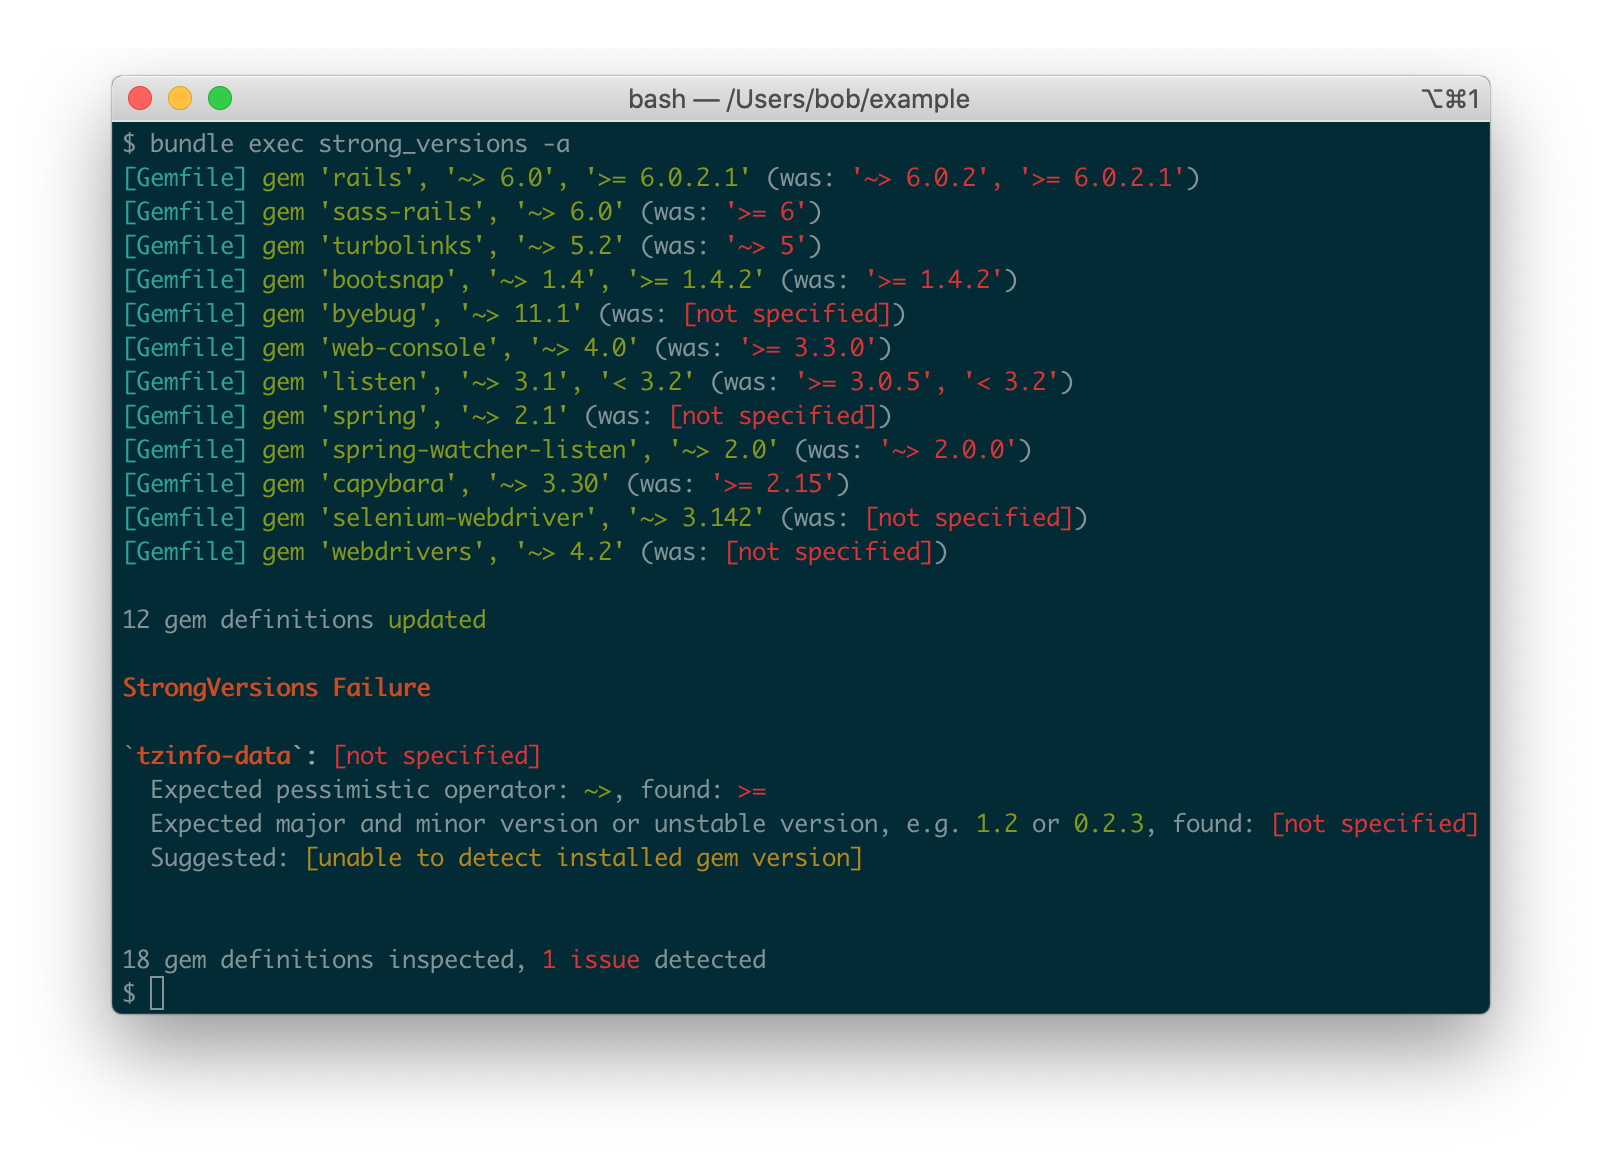
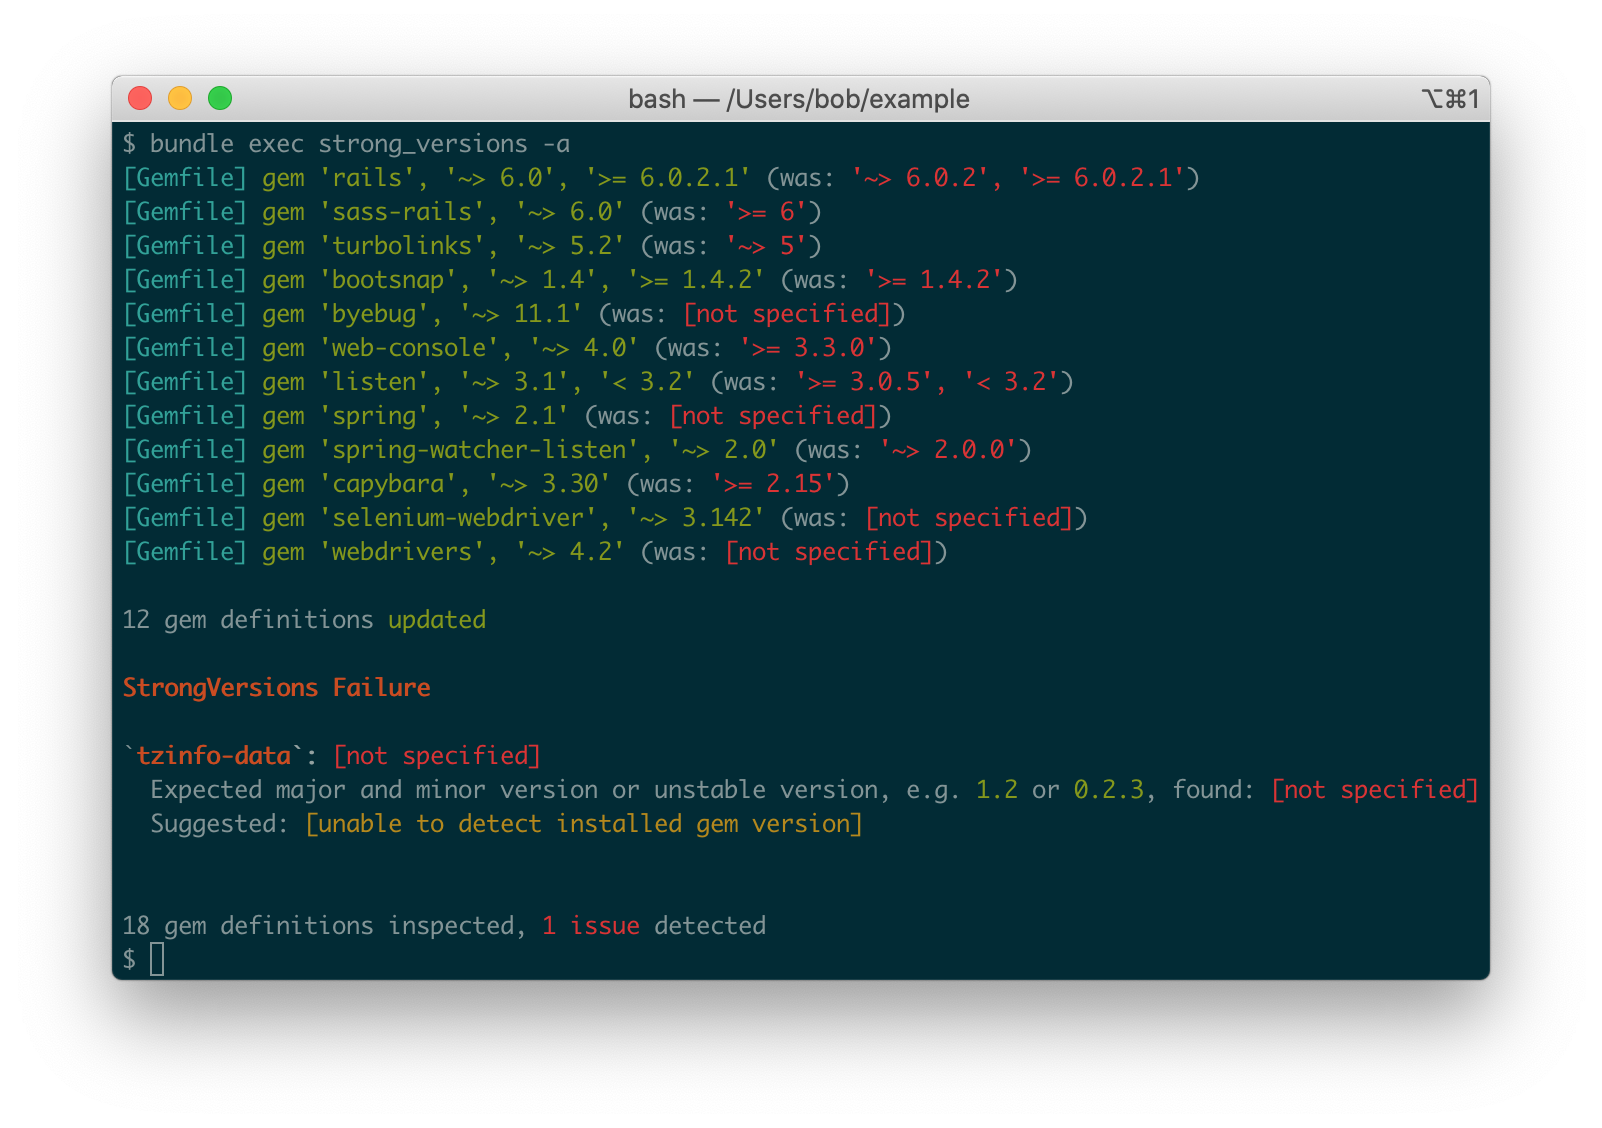
Do not check for pessimistic operator on empty definitions
Ignore operator when when no version requirement is specified
(i.e. `>= 0`).

diff --git a/lib/strong_versions/dependency.rb b/lib/strong_versions/dependency.rb
@@ -72,7 +72,7 @@ module StrongVersions
       return if path_source?
       return if any_valid?
 
-      check_pessimistic(operator)
+      check_pessimistic(operator) unless version.zero?
       check_valid_version(version)
     end
 
